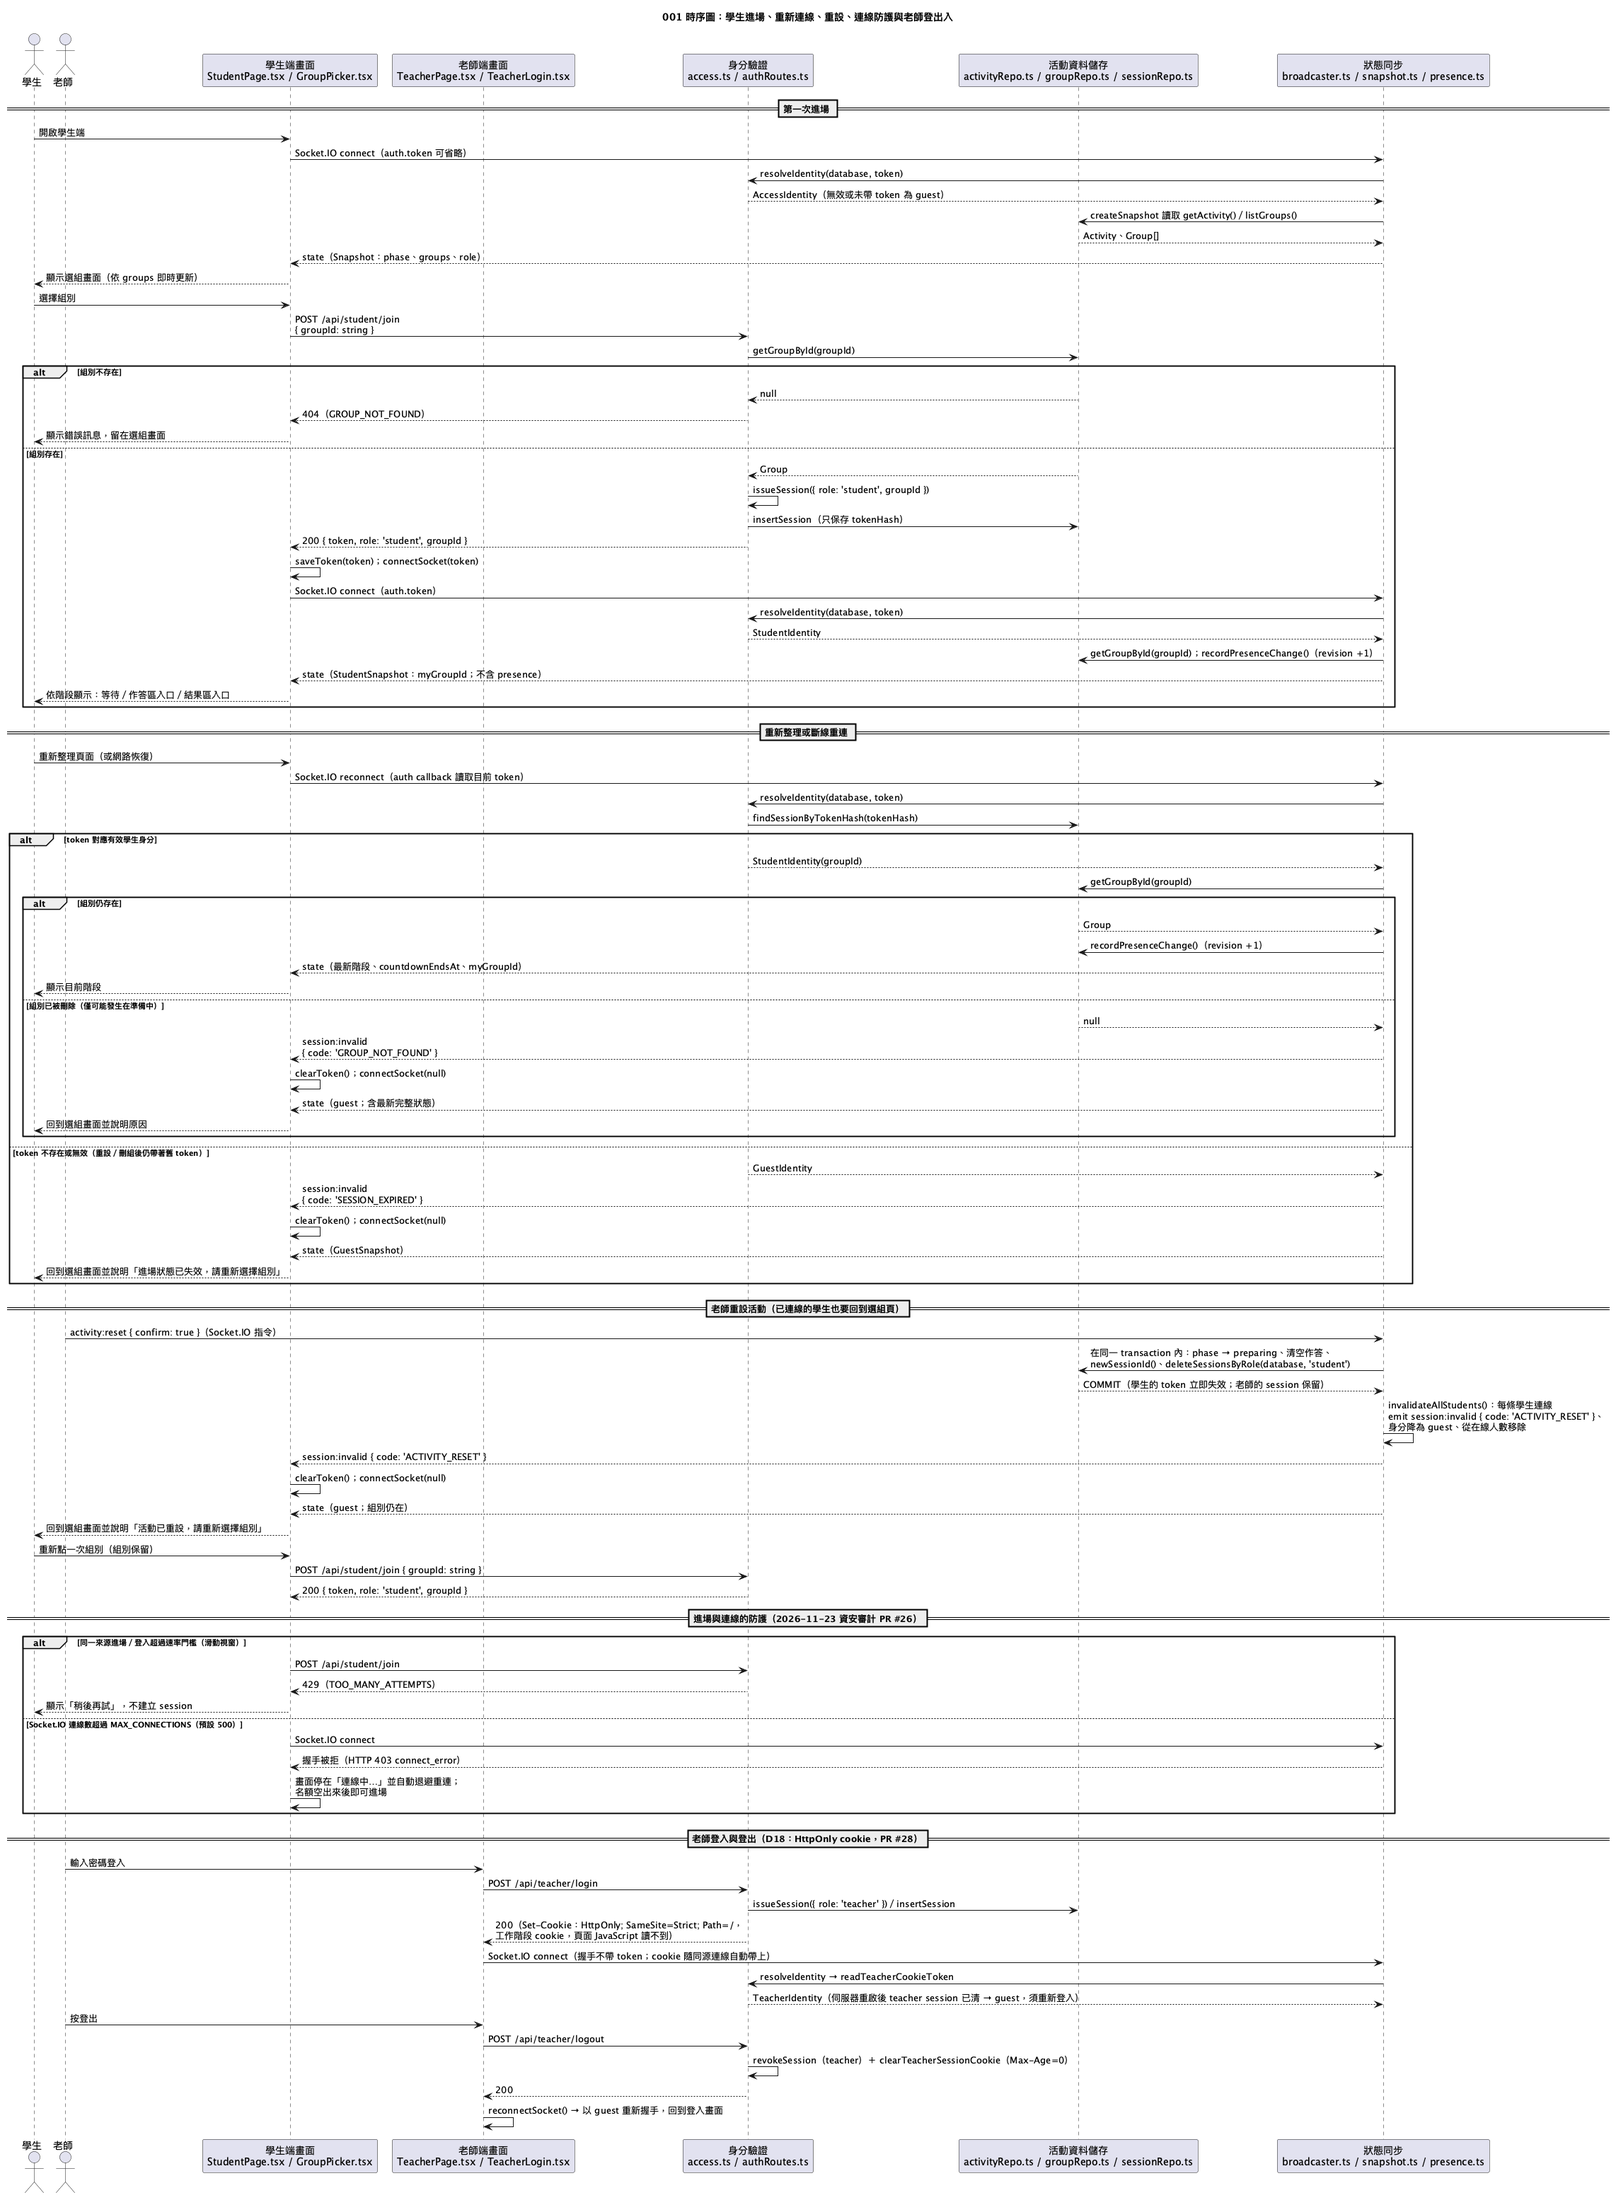
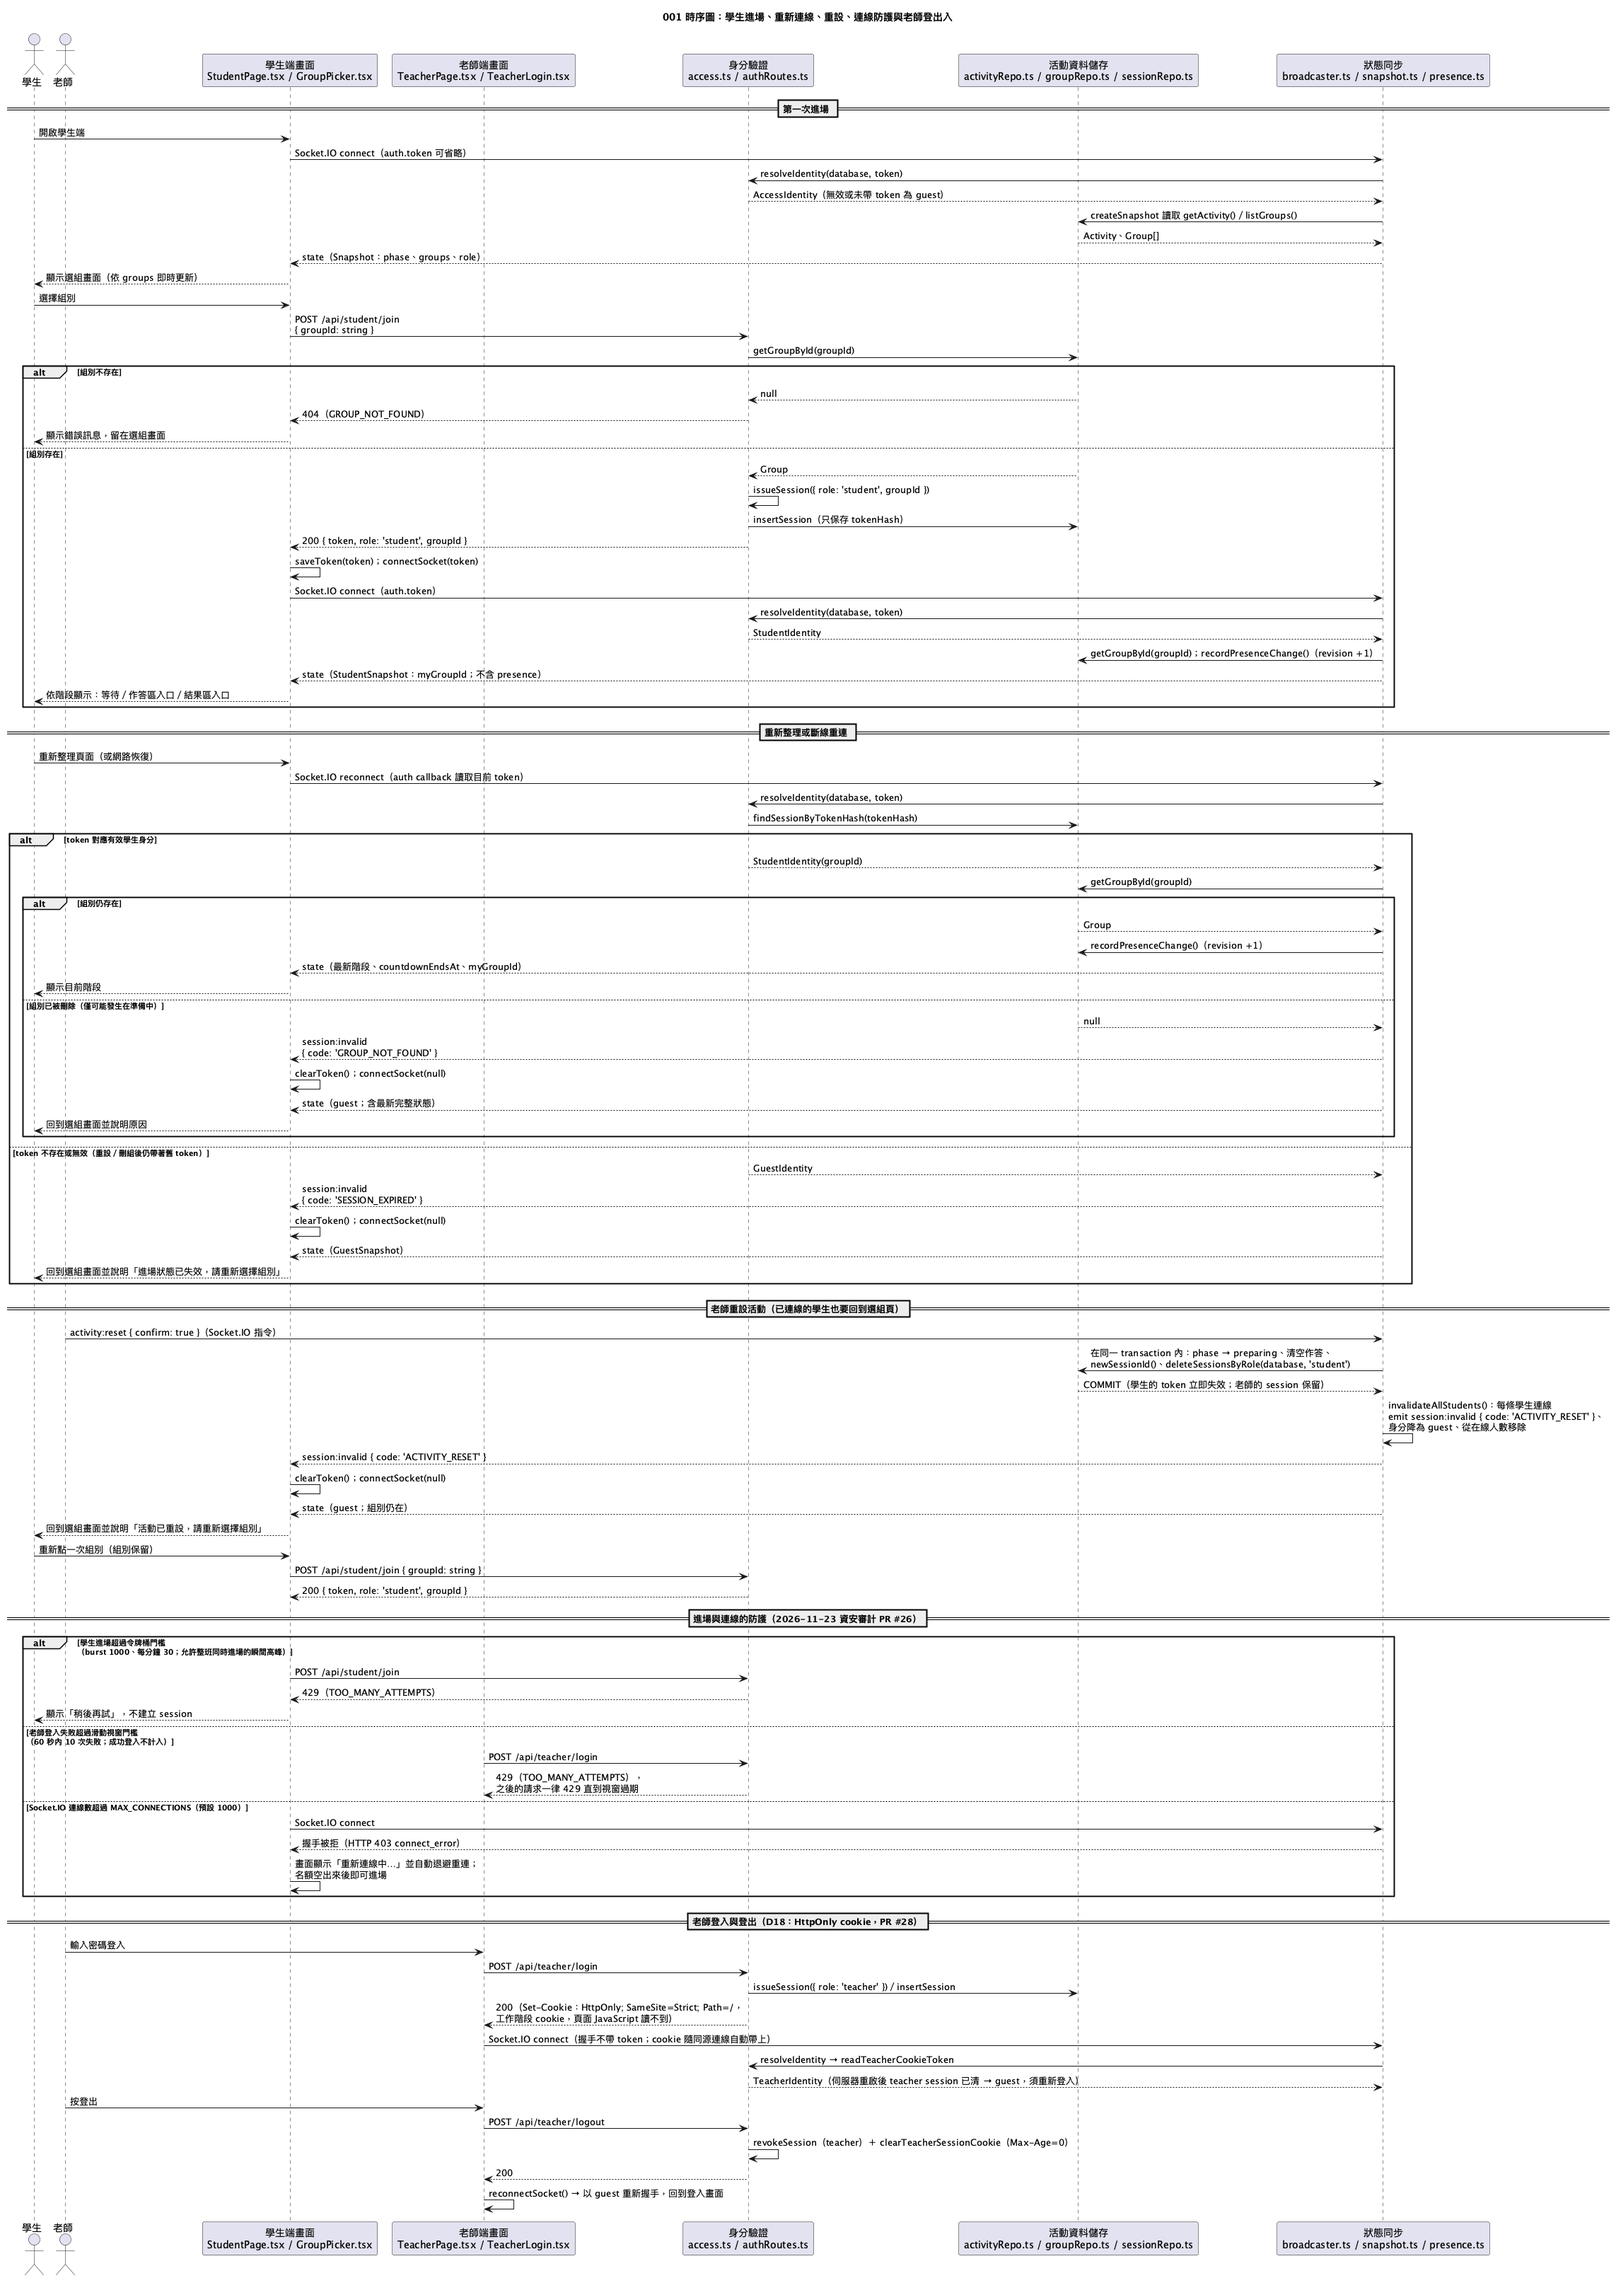
docs(diagrams): 依 review 修正限流機制、連線上限與登出路徑的描述
Philip 2026-11-27 review 指出四處與程式不符，逐項對過程式碼後修正：

- 限流機制分開寫：老師登入＝滑動視窗、只計失敗（60 秒內 10 次）；
  學生進場＝令牌桶（burst 1000、每分鐘 30，允許整班同時進場的
  瞬間高峰）。原本把兩者寫成同一種「滑動視窗」是錯的
- MAX_CONNECTIONS 預設值 500 → 1000（config.ts、.env.example、
  docs/deployment.md 都是 1000，PR #28 已調高）；
  server/src/index.ts 的過時註解一併更正
- 連線被拒時畫面顯示「重新連線中…」（useSnapshot 的 connect_error
  處理），不是「連線中…」
- /api/teacher/logout 沒有限流：組件圖改成 logout 直接連到身分驗證，
  不經過防護元件

PNG 重新產生；npm run check 通過（含 scripts/check-diagrams.sh）。

diff --git a/server/src/index.ts b/server/src/index.ts
@@ -62,7 +62,7 @@ export type CreateServerOptions = {
   sheetWriter?: SheetWriter | null;
   /**
    * 同時在線的 Socket.IO 連線數上限；未指定時用環境變數的設定
-   * （MAX_CONNECTIONS，預設 500；0 = 不限制）。測試用小值驗證上限。
+   * （MAX_CONNECTIONS，預設 1000；0 = 不限制）。測試用小值驗證上限。
    */
   maxConnections?: number;
   /**

diff --git a/specs/001-activity-session/tasks.md b/specs/001-activity-session/tasks.md
@@ -236,8 +236,8 @@ Web application，npm workspaces：`shared/`、`server/`、`web/`、`e2e/`（見
 **Purpose**: Phase 1–9 之後才發生的修改（D18 老師 cookie 登入、資安審計的速率限制與連線上限），程式與規格當時已同步，在此補記對應的 task 與圖表。
 
 - [x] T080 寫 `server/src/infra/http/teacherSession.ts`：老師登入狀態改存 HttpOnly cookie（`HttpOnly; SameSite=Strict; Path=/`，不設 Max-Age、不設 Secure），登出撤銷 session 並以 `Max-Age=0` 清 cookie；伺服器重啟後須重新登入 per FR-002a、AC-001-30（PR #28）
-- [x] T081 寫 `server/src/infra/http/rateLimiter.ts`：同一來源進場／登入的滑動視窗速率限制，超過門檻回 429 `TOO_MANY_ATTEMPTS` per 資安審計 `docs/verification/security-audit-glm-boundary-2026-11-21.md`（PR #26）
-- [x] T082 寫 `server/src/infra/socket/connectionCap.ts`：同時在線連線數上限（`MAX_CONNECTIONS`，預設 500），超過時新的連線在握手階段被拒（HTTP 403），客戶端自動退避重連 per 資安審計（PR #26）
+- [x] T081 寫 `server/src/infra/http/rateLimiter.ts`：兩種機制——老師登入為滑動視窗（只計失敗，60 秒內 10 次後回 429 `TOO_MANY_ATTEMPTS`，成功登入不計入）；學生進場為令牌桶（burst 1000、每分鐘 30，允許整班同時進場的瞬間高峰）per 資安審計 `docs/verification/security-audit-glm-boundary-2026-11-21.md`（PR #26）
+- [x] T082 寫 `server/src/infra/socket/connectionCap.ts`：同時在線連線數上限（`MAX_CONNECTIONS`，預設 1000；PR #28 已由 500 調高），超過時新的連線在握手階段被拒（HTTP 403），客戶端自動退避重連 per 資安審計（PR #26）
 - [x] T083 把上述模組補進 `diagrams/001-activity-session-component.puml`（進場與連線防護元件）與 `-seq-join.puml`（速率限制、連線上限、老師登入／登出三條路徑），更新 plan.md 對應表，重跑 `scripts/render-diagrams.sh` 與 `scripts/check-diagrams.sh`（2026-11-27，PR 見本分支）
 
 ---

diff --git a/docs/verification/001-diagram-consistency.md b/docs/verification/001-diagram-consistency.md
@@ -52,4 +52,6 @@ PNG 已由監督者以 `scripts/render-diagrams.sh` 產生，`scripts/check-diag
 
 類別圖本次未改：三個模組都是 infra 層（cookie 處理、限流、連線計數），不是 domain 型別；`Session` 上「老師登入狀態另以 HttpOnly cookie 存放」的註記原本就存在。plan.md「圖表與模組對應」新增「進場與連線防護」一列並把 `teacherSession.ts` 併入身分驗證；tasks.md 補 Phase 10（T080–T083）。屬於 003 的 `submissionIndex.ts`（PR #25）見 `003-diagram-consistency.md`。
 
+2026-11-27 review（philip110531）再修正四處：限流機制分開寫（老師登入＝滑動視窗只計失敗、學生進場＝令牌桶 burst 1000／每分鐘 30）；`MAX_CONNECTIONS` 預設值更正為 1000（`server/src/index.ts` 的過時註解一併更正）；連線被拒時畫面顯示「重新連線中…」（不是「連線中…」）；`/api/teacher/logout` 不限流，改為直接連到身分驗證、不經過防護元件。
+
 PNG 已重新產生，`scripts/check-diagrams.sh` 與 `npm run check` 通過（2026-11-27）。
